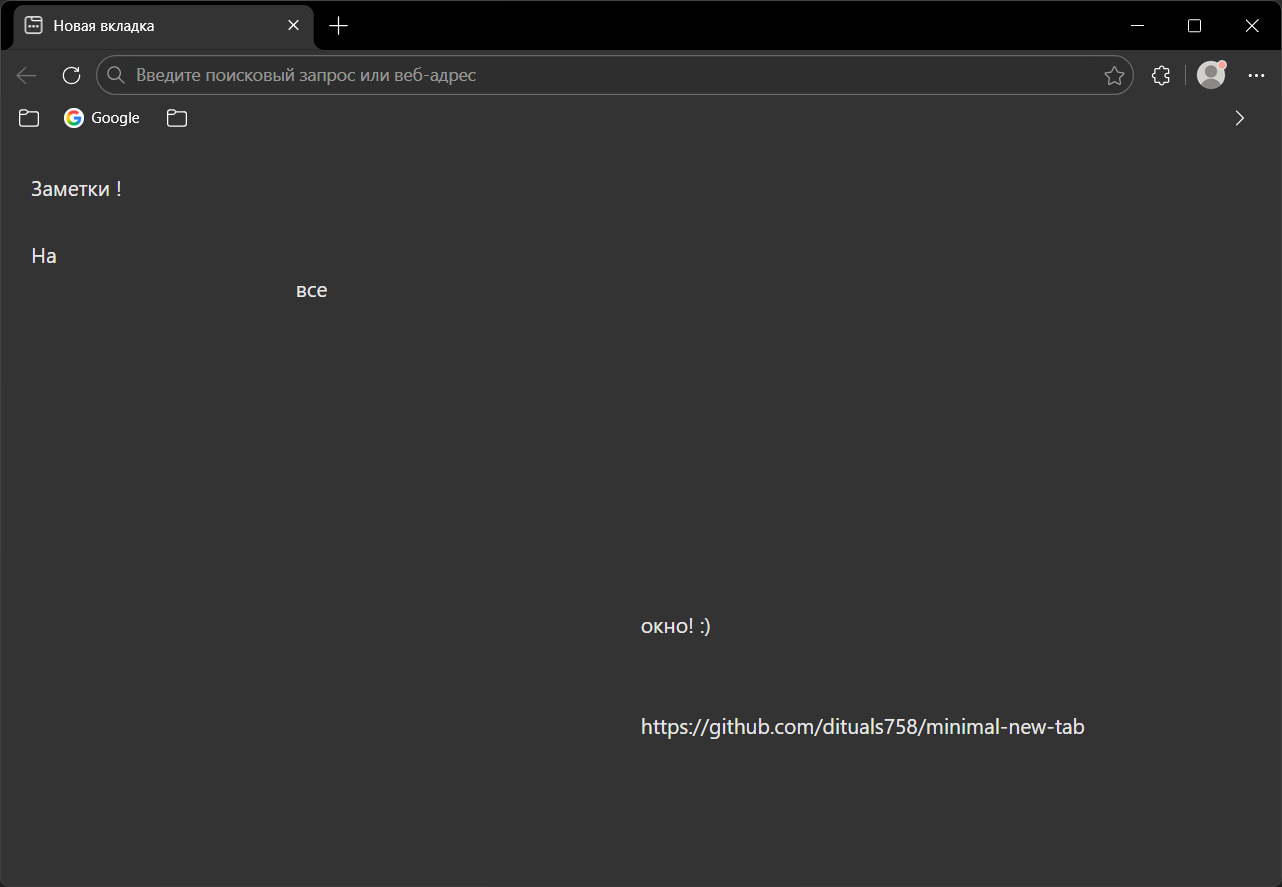
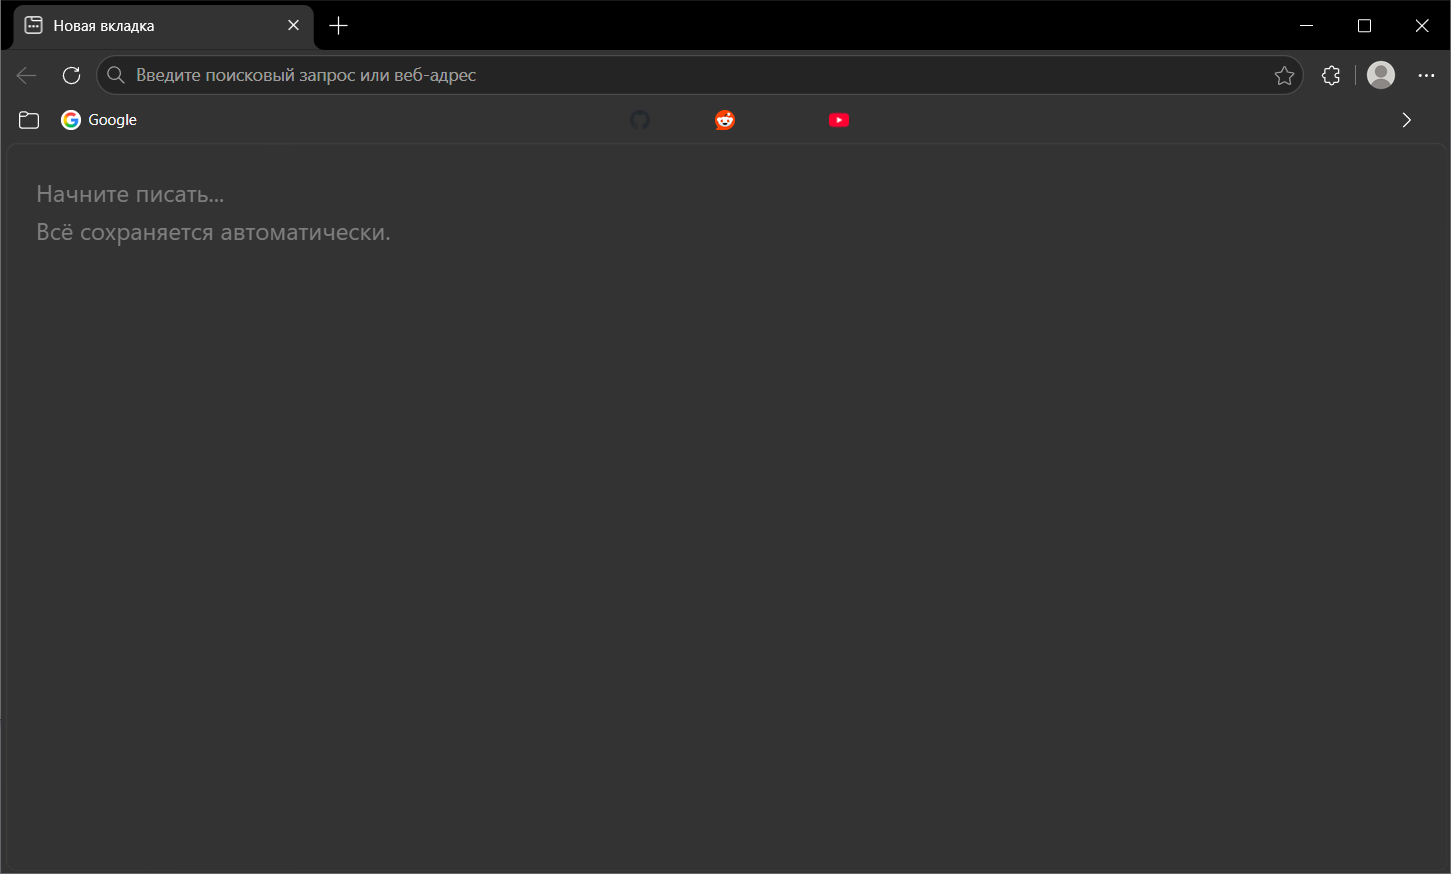
1.0.3

diff --git a/index.html b/index.html
@@ -5,89 +5,30 @@
     <meta name="viewport" content="width=device-width, initial-scale=1.0">
     <title>Новая вкладка</title>
     <style>
-        :root {
-            --bg: #f6f6f6;
-            --text: #1e1e2f;
-            --placeholder: #9e9eae;
-            --scrollbar-track: rgba(0,0,0,0.05);
-            --scrollbar-thumb: rgba(0,0,0,0.2);
-            --status-bg: rgba(246,246,246,0.9);
-        }
-        @media (prefers-color-scheme: dark) {
-            :root {
-                --bg: #333333;
-                --text: #e8e8e8;
-                --placeholder: #9e9e9e;
-                --scrollbar-track: rgba(255,255,255,0.1);
-                --scrollbar-thumb: rgba(255,255,255,0.25);
-                --status-bg: rgba(51,51,51,0.9);
-            }
-        }
-        * { margin: 0; padding: 0; box-sizing: border-box; }
-        body {
-            background: var(--bg);
-            color: var(--text);
-            font-family: 'Segoe UI', system-ui, sans-serif;
-            height: 100vh;
-            display: flex;
-            flex-direction: column;
-        }
-        .notebook {
-            flex: 1;
-            display: flex;
-            flex-direction: column;
-            width: 100%;
-            margin: 0;
-            padding: 0;
-        }
-        .notes-editor {
-            flex: 1;
-            background: transparent;
-            border: none;
-            outline: none;
-            font-size: 1.05rem;
-            line-height: 1.6;
-            font-family: 'Segoe UI', monospace;
-            resize: none;
-            color: inherit;
-            padding: 24px;
-            overflow-y: auto;
-        }
-        .notes-editor::-webkit-scrollbar { width: 8px; }
-        .notes-editor::-webkit-scrollbar-track { background: var(--scrollbar-track); border-radius: 10px; }
-        .notes-editor::-webkit-scrollbar-thumb { background: var(--scrollbar-thumb); border-radius: 10px; }
-        .notes-editor::placeholder { color: var(--placeholder); opacity: 0.7; }
-        .status {
-            position: fixed;
-            bottom: 20px;
-            right: 24px;
-            font-size: 0.75rem;
-            font-weight: 500;
-            color: var(--text);
-            background: var(--status-bg);
-            backdrop-filter: blur(12px);
-            padding: 6px 14px;
-            border-radius: 30px;
-            box-shadow: 0 2px 8px rgba(0,0,0,0.05);
-            pointer-events: none;
-            opacity: 0;
-            transition: opacity 0.2s;
-            z-index: 1000;
-        }
-        .status.show { opacity: 1; }
-        @media (max-width: 768px) {
-            .notes-editor { font-size: 1rem; padding: 20px; }
-        }
-        @media (max-width: 480px) {
-            .notes-editor { padding: 16px; }
-        }
+        :root{--bg:#f6f6f6;--text:#1e1e2f;--placeholder:#9e9eae;--sb-track:rgba(0,0,0,.05);--sb-thumb:rgba(0,0,0,.2);--status-bg:rgba(246,246,246,.9);--focus:rgba(100,100,150,.4)}
+        @media(prefers-color-scheme:dark){:root{--bg:#333;--text:#e8e8e8;--placeholder:#9e9e9e;--sb-track:rgba(255,255,255,.1);--sb-thumb:rgba(255,255,255,.25);--status-bg:rgba(51,51,51,.9);--focus:rgba(180,180,220,.5)}}
+        *{margin:0;padding:0;box-sizing:border-box}
+        body{background:var(--bg);color:var(--text);font-family:'Segoe UI',system-ui,sans-serif;height:100vh;display:flex;flex-direction:column}
+        .notebook{flex:1;display:flex;flex-direction:column;width:100%}
+        .notes-editor{flex:1;background:transparent;border:none;outline:none;font-size:clamp(1rem,2.5vw,1.2rem);line-height:1.6;font-family:'Segoe UI',monospace;resize:none;color:inherit;padding:24px;overflow-y:auto;caret-color:currentColor}
+        .notes-editor::-webkit-scrollbar{width:8px}
+        .notes-editor::-webkit-scrollbar-track{background:var(--sb-track);border-radius:10px}
+        .notes-editor::-webkit-scrollbar-thumb{background:var(--sb-thumb);border-radius:10px}
+        .notes-editor::placeholder{color:var(--placeholder);opacity:.7}
+        .notes-editor:focus-visible{outline:none;box-shadow:0 0 0 2px var(--focus)}
+        .status{position:fixed;bottom:20px;right:24px;font-size:.75rem;font-weight:500;color:var(--text);background:var(--status-bg);backdrop-filter:blur(12px);padding:6px 14px;border-radius:30px;box-shadow:0 2px 8px rgba(0,0,0,.05);pointer-events:none;opacity:0;transition:opacity .15s cubic-bezier(.2,.9,.4,1.1),transform .1s ease;transform:translateY(0);z-index:1000}
+        .status.show{opacity:1;transform:translateY(-2px)}
+        @media(prefers-reduced-motion:reduce){.status,.status.show{transition:none;transform:none}}
+        @media(forced-colors:active){.notes-editor{border:1px solid CanvasText}.notes-editor:focus-visible{outline:2px solid Highlight;outline-offset:2px}.status{border:1px solid CanvasText;background:Canvas}}
+        @media(max-width:768px){.notes-editor{font-size:1rem;padding:20px}}
+        @media(max-width:480px){.notes-editor{padding:16px}}
     </style>
 </head>
 <body>
     <div class="notebook">
-        <textarea class="notes-editor" id="editor" placeholder="Начните писать...&#10;Всё сохраняется автоматически." spellcheck="true"></textarea>
+        <textarea class="notes-editor" id="editor" placeholder="Начните писать...&#10;Всё сохраняется автоматически." spellcheck="true" autofocus></textarea>
     </div>
-    <div class="status" id="status">Сохранено</div>
+    <div class="status" id="status"></div>
     <script src="./notes.js"></script>
 </body>
 </html>

diff --git a/notes.js b/notes.js
@@ -1,45 +1,95 @@
 const STORAGE_KEY = 'minimal_notes';
+const SESSION_KEY = 'pending_note';
+const MAX_SIZE = 4 * 1024 * 1024;
+
 const editor = document.getElementById('editor');
 const statusEl = document.getElementById('status');
 
 let saveTimeout;
 let lastContent = '';
+let isSaving = false;
 
-const showStatus = (text = 'Сохранено') => {
+const msg = {
+    saving: 'Сохранение...',
+    saved: 'Сохранено',
+    loaded: 'Загружено',
+    restored: 'Восстановлено из черновика',
+    sizeErr: 'Превышен лимит',
+    saveErr: 'Ошибка сохранения',
+    loadErr: 'Ошибка загрузки',
+    syncErr: 'Ошибка синхронизации'
+};
+
+function showStatus(text, isError) {
     statusEl.textContent = text;
     statusEl.classList.add('show');
-    setTimeout(() => statusEl.classList.remove('show'), 1500);
-};
+    setTimeout(() => statusEl.classList.remove('show'), isError ? 3000 : 1500);
+}
 
-const saveNotes = (showFeedback = true) => {
-    const content = editor.value;
-    if (content === lastContent) return;
-    chrome.storage.local.set({ [STORAGE_KEY]: content }, () => {
-        if (!chrome.runtime.lastError) {
-            lastContent = content;
-            if (showFeedback) showStatus();
-        } else if (showFeedback) showStatus('⚠ Ошибка');
+function saveToSession(text) {
+    try { sessionStorage.setItem(SESSION_KEY, JSON.stringify({ text, ts: Date.now() })); } catch (e) {}
+}
+
+function saveNotes(show) {
+    const text = editor.value;
+    if (text === lastContent || isSaving) return;
+    if (new Blob([text]).size > MAX_SIZE) {
+        showStatus(msg.sizeErr + ' 4 МБ', true);
+        return;
+    }
+    isSaving = true;
+    if (show) showStatus(msg.saving);
+    saveToSession(text);
+    chrome.storage.local.set({ [STORAGE_KEY]: text }, () => {
+        isSaving = false;
+        if (chrome.runtime.lastError) {
+            if (show) showStatus(msg.saveErr, true);
+            return;
+        }
+        lastContent = text;
+        try { sessionStorage.removeItem(SESSION_KEY); } catch (e) {}
+        if (show) showStatus(msg.saved);
     });
-};
+}
 
-const loadNotes = () => {
+function loadNotes() {
     chrome.storage.local.get([STORAGE_KEY], (result) => {
-        const saved = result[STORAGE_KEY] || '';
-        editor.value = saved;
-        lastContent = saved;
-        if (saved) showStatus('Загружено');
+        let saved = '';
+        if (!chrome.runtime.lastError && result[STORAGE_KEY]) saved = result[STORAGE_KEY];
+        else if (chrome.runtime.lastError) showStatus(msg.loadErr, true);
+
+        let backup = null;
+        try { const r = sessionStorage.getItem(SESSION_KEY); if (r) backup = JSON.parse(r); } catch (e) {}
+
+        let text = saved;
+        let fromBackup = false;
+        if (backup && backup.text && backup.text !== saved) {
+            text = backup.text;
+            fromBackup = true;
+            try { sessionStorage.removeItem(SESSION_KEY); } catch (e) {}
+        }
+
+        editor.value = text;
+        lastContent = text;
+        if (text) showStatus(fromBackup ? msg.restored : msg.loaded);
+        if (fromBackup) chrome.storage.local.set({ [STORAGE_KEY]: text }, () => {
+            if (chrome.runtime.lastError) showStatus(msg.syncErr, true);
+        });
     });
-};
+}
+
+window.addEventListener('keydown', (e) => {
+    if ((e.ctrlKey || e.metaKey) && e.key === 's') { e.preventDefault(); saveNotes(true); }
+});
 
 editor.addEventListener('input', () => {
+    saveToSession(editor.value);
     clearTimeout(saveTimeout);
-    saveTimeout = setTimeout(() => saveNotes(true), 300);
+    saveTimeout = setTimeout(() => saveNotes(true), 200);
 });
-editor.addEventListener('blur', () => {
-    clearTimeout(saveTimeout);
-    saveNotes(true);
-});
-window.addEventListener('beforeunload', () => saveNotes(false));
+
+editor.addEventListener('blur', () => { clearTimeout(saveTimeout); saveNotes(true); });
+window.addEventListener('beforeunload', () => { saveToSession(editor.value); saveNotes(false); });
 
 loadNotes();
-setTimeout(() => editor.focus(), 50);
+editor.focus();

diff --git a/README.md b/README.md
@@ -1,38 +1,43 @@
 # Minimal New Tab
 
-Минималистичная страница новой вкладки для Microsoft Edge и Chrome. Расширение убирает визуальный шум стандартной вкладки, оставляя только чистый фон и встроенный блокнот. Текст заметок автоматически сохраняется и восстанавливается при открытии новой вкладки. Цвет фона адаптируется к светлой или тёмной теме операционной системы.
+Минималистичная страница новой вкладки для Microsoft Edge и Chrome. Расширение убирает визуальный шум стандартной вкладки, оставляя чистый фон и встроенный блокнот. Текст заметок автоматически сохраняется и восстанавливается при открытии новой вкладки. Цвет фона адаптируется к светлой или тёмной теме ОС.
 
 ## Возможности
 
 - **Чистый фон** — никаких новостей, виджетов или обоев.
 - **Встроенный блокнот** — пишите заметки прямо на новой вкладке.
-- **Автосохранение** — текст сохраняется автоматически во время ввода, без необходимости нажимать кнопку.
-- **Адаптация к теме** — автоматическое переключение между светлым (`#f6f6f6`) и тёмным (`#333333`) фоном.
-- **Проверка орфографии** — включена по умолчанию (подчёркивание ошибок).
-- **Лёгкость** — размер расширения — менее 2 КБ.
-- **Конфиденциальность** — для работы требуется только разрешение `storage` (хранение заметок). Расширение не собирает и не передаёт данные.
+- **Автосохранение** — текст сохраняется автоматически во время ввода.
+- **Резервное копирование** — данные дублируются в sessionStorage, предотвращая потерю заметок.
+- **Ручное сохранение** — `Ctrl+S` / `Cmd+S`.
+- **Контроль размера** — предупреждение при превышении 4 МБ.
+- **Адаптация к теме** — автоматическое переключение фона.
+- **Доступность** — `prefers-reduced-motion`, `forced-colors`, видимое кольцо фокуса.
+- **Проверка орфографии** — включена по умолчанию.
+- **Конфиденциальность** — только разрешение `storage`. Расширение не собирает данные.
 
 ## Скриншоты
 
 | Светлая тема | Тёмная тема |
 |--------------|-------------|
-| ![Светлая тема](./screenshots/screenshot-light.png) | ![Тёмная тема](./screenshots/screenshot-dark.png) |
+| ![Светлая](./screenshots/screenshot-light.png) | ![Тёмная](./screenshots/screenshot-dark.png) |
 
 ## Установка
 
-### Из магазина надстроек Microsoft Edge
-*Ссылка на страницу расширения будет добавлена после публикации.*
+### Microsoft Edge Add-ons
 
-### Установка в режиме разработчика
-1. Скачайте и распакуйте архив с файлами расширения.
-2. Откройте браузер и перейдите на страницу `edge://extensions/`.
-3. Включите **режим разработчика** (переключатель в левом нижнем углу).
-4. Нажмите **Загрузить распакованное** и выберите папку с файлами расширения.
+*Ссылка будет добавлена после публикации.*
+
+### Режим разработчика
+
+1. Скачайте и распакуйте архив.
+2. Откройте `edge://extensions/`.
+3. Включите **режим разработчика**.
+4. Нажмите **Загрузить распакованное** и выберите папку.
 
 ## Требования
 
-- Microsoft Edge 146+ или Chrome 120+.
-- Разрешение `storage` для сохранения заметок.
+- Microsoft Edge 149+ или Chrome 120+.
+- Разрешение `storage`.
 
 ## Лицензия
 
